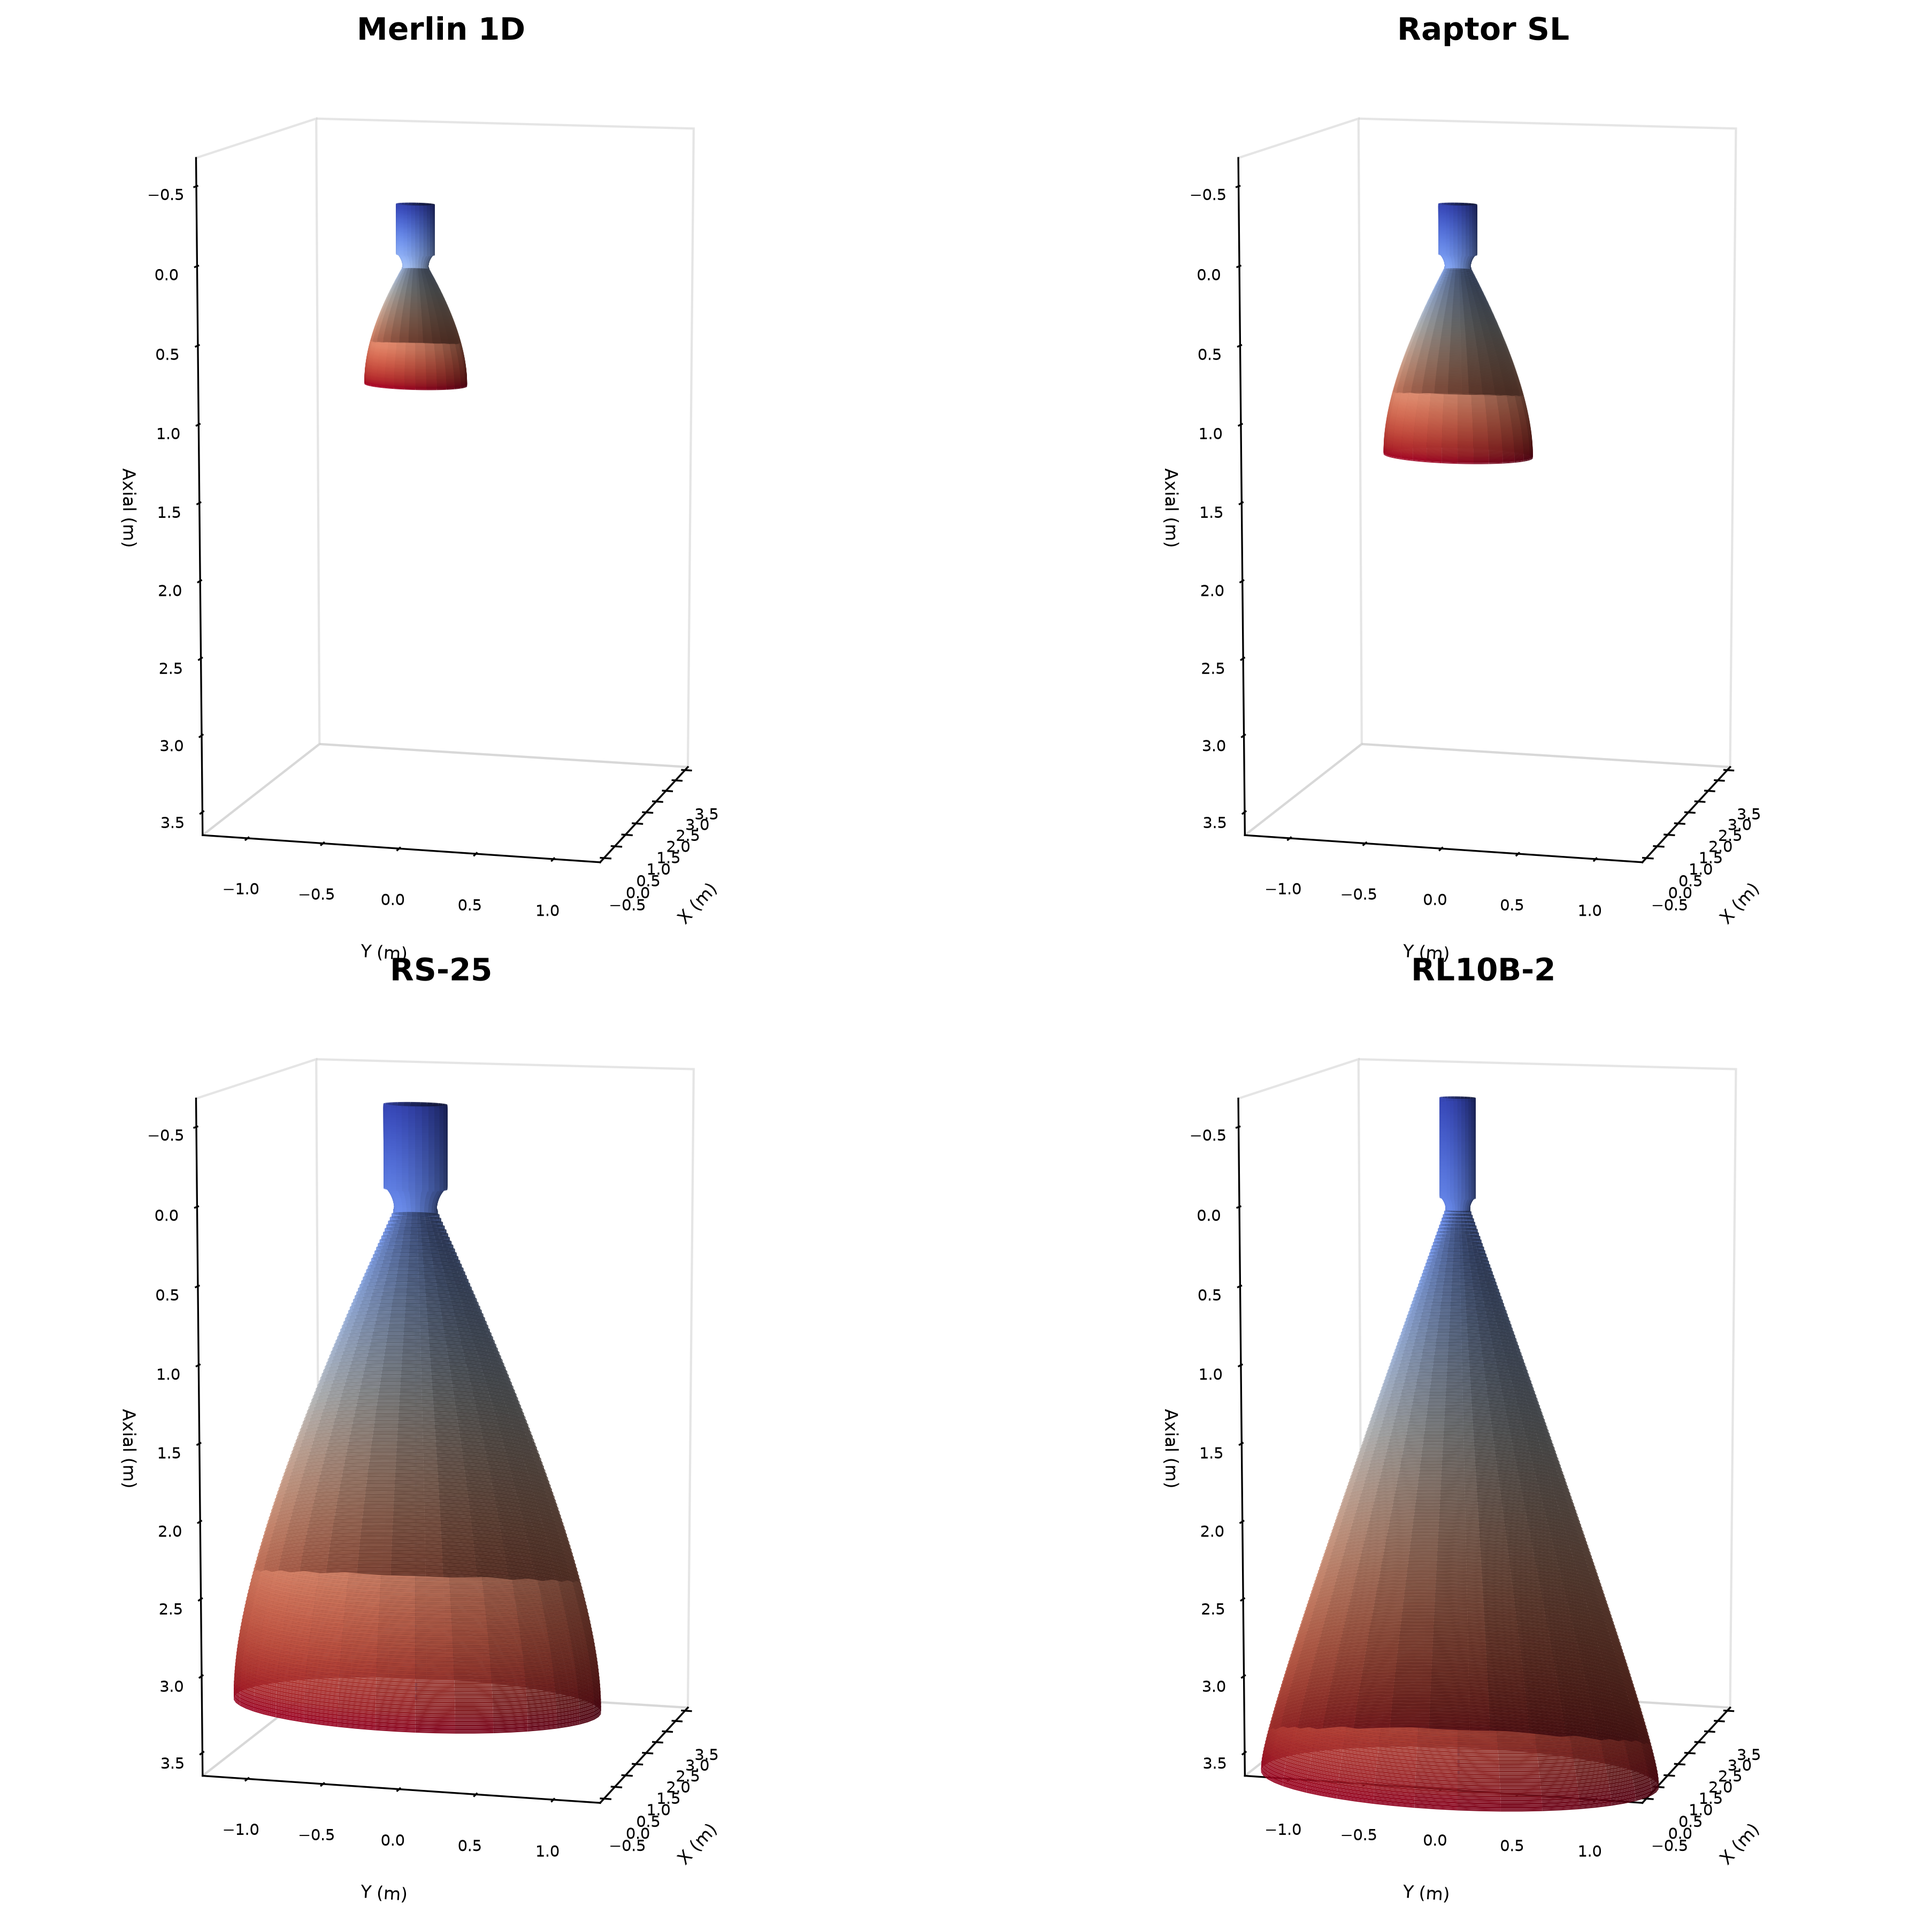
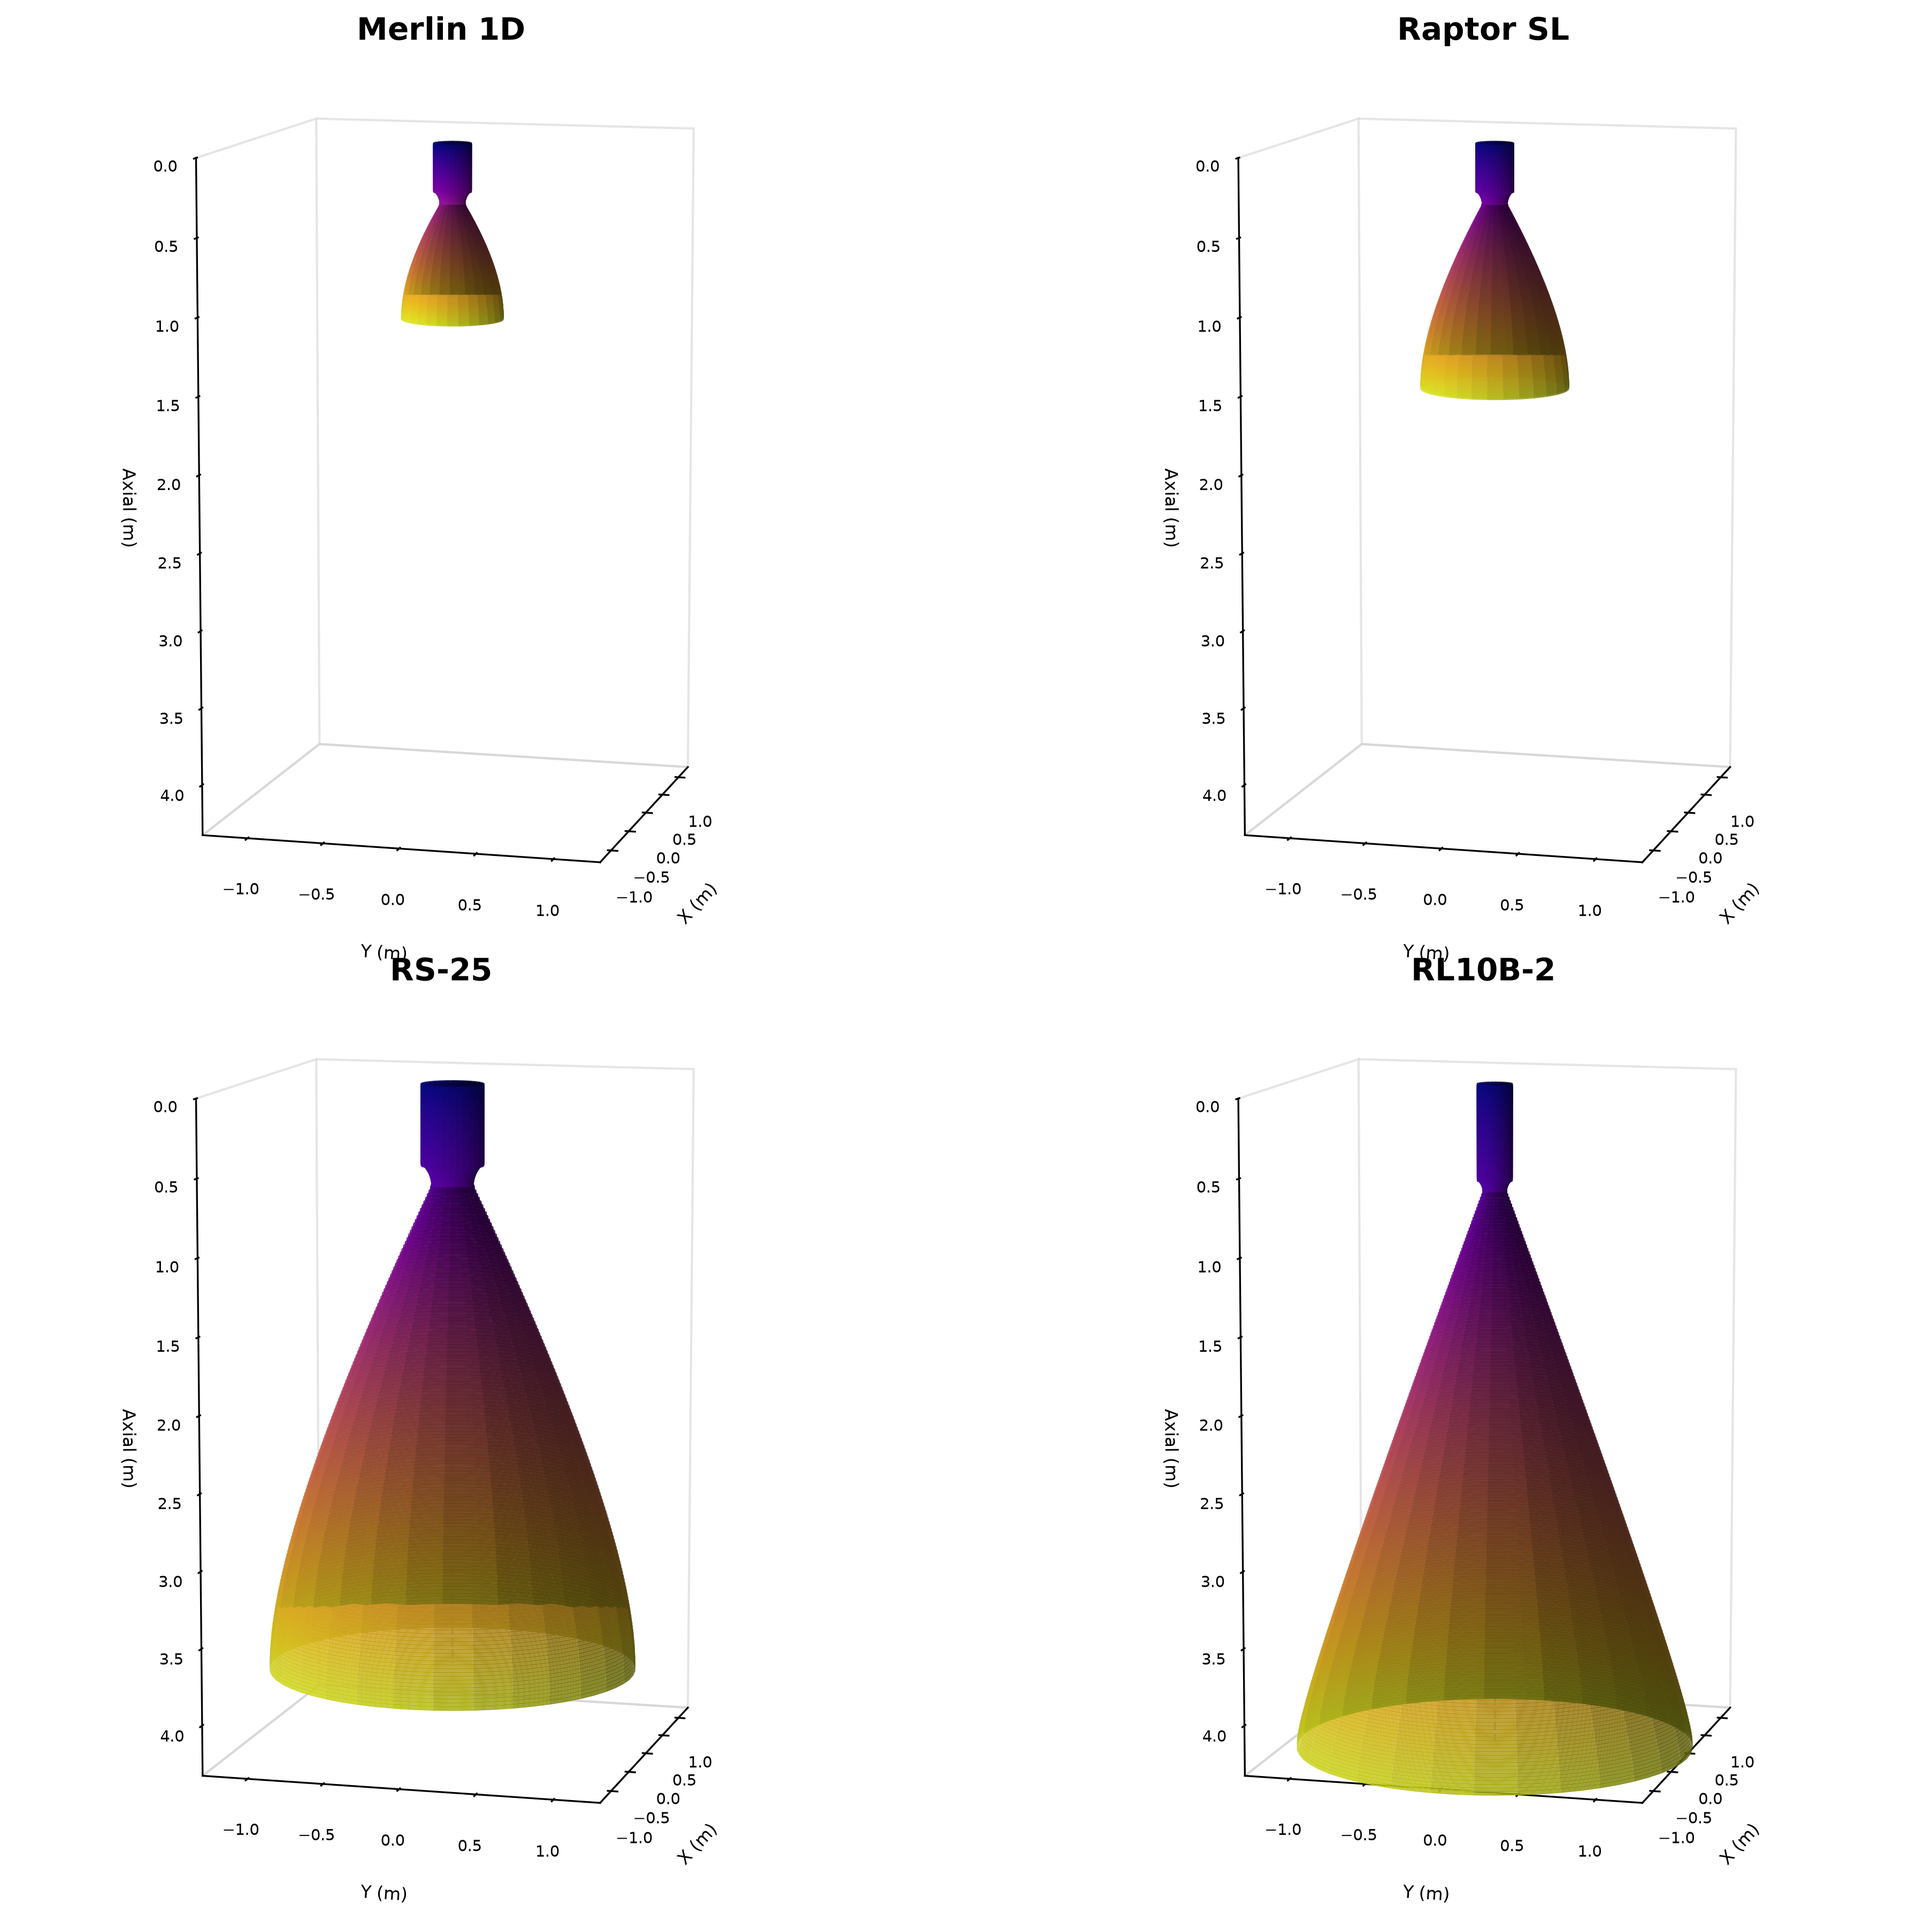
fix(viz): align engine bases at z=0 and switch to plasma colormap

diff --git a/src/viz/plot_multi_3d.py b/src/viz/plot_multi_3d.py
@@ -41,23 +41,34 @@ def _ring(
 def _draw_nozzle_on_ax(
     ax: plt.Axes,
     config: NozzleConfig,
+    z_offset: float = 0.0,
     n_theta: int = 60,
-    colormap: str = "coolwarm",
+    colormap: str = "plasma",
 ) -> None:
-    """Draw a single nozzle surface on a 3D axes."""
+    """Draw a single nozzle surface on a 3D axes.
+
+    Args:
+        ax: 3D axes to draw on.
+        config: Nozzle geometry configuration.
+        z_offset: Vertical shift so the nozzle base sits at z=0.
+        n_theta: Circumferential resolution for ring generation.
+        colormap: Matplotlib colormap name.
+    """
     x, y = generate_contour(config)
+    # Shift so base (minimum x) sits at z=0
+    x_shifted = x - x.min() + z_offset
     ring_thickness = 5.0 * abs(x[1] - x[0]) if len(x) > 1 else 0.01
 
-    norm = plt.Normalize(x.min(), x.max())
+    norm = plt.Normalize(x_shifted.min(), x_shifted.max())
     cmap = plt.get_cmap(colormap)
 
     for i in range(len(y)):
-        X, Y, Z = _ring(y[i], ring_thickness, x[i], n_theta=n_theta)
-        colour = cmap(norm(x[i]))
+        X, Y, Z = _ring(y[i], ring_thickness, x_shifted[i], n_theta=n_theta)
+        colour = cmap(norm(x_shifted[i]))
         ax.plot_surface(X, Y, Z, color=colour, alpha=0.92, shade=True)
 
     # Axis of symmetry
-    z_min, z_max = float(x.min()), float(x.max())
+    z_min, z_max = float(x_shifted.min()), float(x_shifted.max())
     ax.plot(
         [0, 0], [0, 0], [z_min, z_max],
         color="#1565C0", linewidth=1.0, alpha=0.6, linestyle="--",
@@ -70,12 +81,12 @@ def plot_multi_3d(
     elevation: float = -170.0,
     azimuth: float = -15.0,
     n_theta: int = 60,
-    colormap: str = "coolwarm",
+    colormap: str = "plasma",
 ) -> Path:
     """Create a 2x2 subplot grid comparing all four nozzle geometries.
 
-    All subplots share unified axis limits computed from the global
-    min/max across all four nozzle contours.
+    All nozzles are base-aligned (chamber inlet at z=0) with unified
+    axis limits so relative height/size is immediately visible.
 
     Args:
         output_path: Where to save the PNG.
@@ -98,17 +109,17 @@ def plot_multi_3d(
         ("RL10B-2", rl10b_2()),
     ]
 
-    # Generate all contours first to compute global axis limits
+    # Generate all contours to compute global axis limits
     contours: list[tuple[np.ndarray, np.ndarray]] = []
     for _, cfg in engines:
         contours.append(generate_contour(cfg))
 
-    # Global min/max across all contours
-    all_x = np.concatenate([c[0] for c in contours])
+    # Global radial limit (y-axis) across all contours
     all_y = np.concatenate([c[1] for c in contours])
-    global_x_min, global_x_max = float(all_x.min()), float(all_x.max())
-    global_y_min = -float(all_y.max())
     global_y_max = float(all_y.max())
+
+    # Global axial extent: max height across all nozzles (base-aligned at z=0)
+    global_z_max = max(float(c[0].max() - c[0].min()) for c in contours)
 
     # Figure
     fig = plt.figure(figsize=(14, 12))
@@ -122,18 +133,15 @@ def plot_multi_3d(
         ax = fig.add_subplot(2, 2, idx + 1, projection="3d")
         ax.set_facecolor("white")
 
-        _draw_nozzle_on_ax(ax, cfg, n_theta=n_theta, colormap=colormap)
+        _draw_nozzle_on_ax(ax, cfg, z_offset=0.0, n_theta=n_theta, colormap=colormap)
 
-        # Unified axes
-        x_range = global_x_max - global_x_min
-        y_range = global_y_max - global_y_min
-        z_dim = max(x_range, y_range)
+        # Unified axes: base at z=0, radial symmetric
         xy_diameter = global_y_max * 2
-        ax.set_box_aspect([1.0, 1.0, x_range / xy_diameter])
+        ax.set_box_aspect([1.0, 1.0, global_z_max / xy_diameter])
 
-        ax.set_xlim3d([global_x_min, global_x_max])
-        ax.set_ylim3d([global_y_min, global_y_max])
-        ax.set_zlim3d([global_x_min, global_x_max])
+        ax.set_xlim3d([-global_y_max, global_y_max])
+        ax.set_ylim3d([-global_y_max, global_y_max])
+        ax.set_zlim3d([0.0, global_z_max])
 
         # Clean axis panes
         ax.xaxis.pane.fill = False

diff --git a/src/viz/nozzle_3d.py b/src/viz/nozzle_3d.py
@@ -53,7 +53,7 @@ def plot_nozzle_3d(
     elevation: float = -170.0,
     azimuth: float = -15.0,
     n_theta: int = 60,
-    colormap: str = "coolwarm",
+    colormap: str = "plasma",
     engine_name: str = "Nozzle",
 ) -> Path:
     """Create a 3D revolved surface plot of the nozzle contour.
